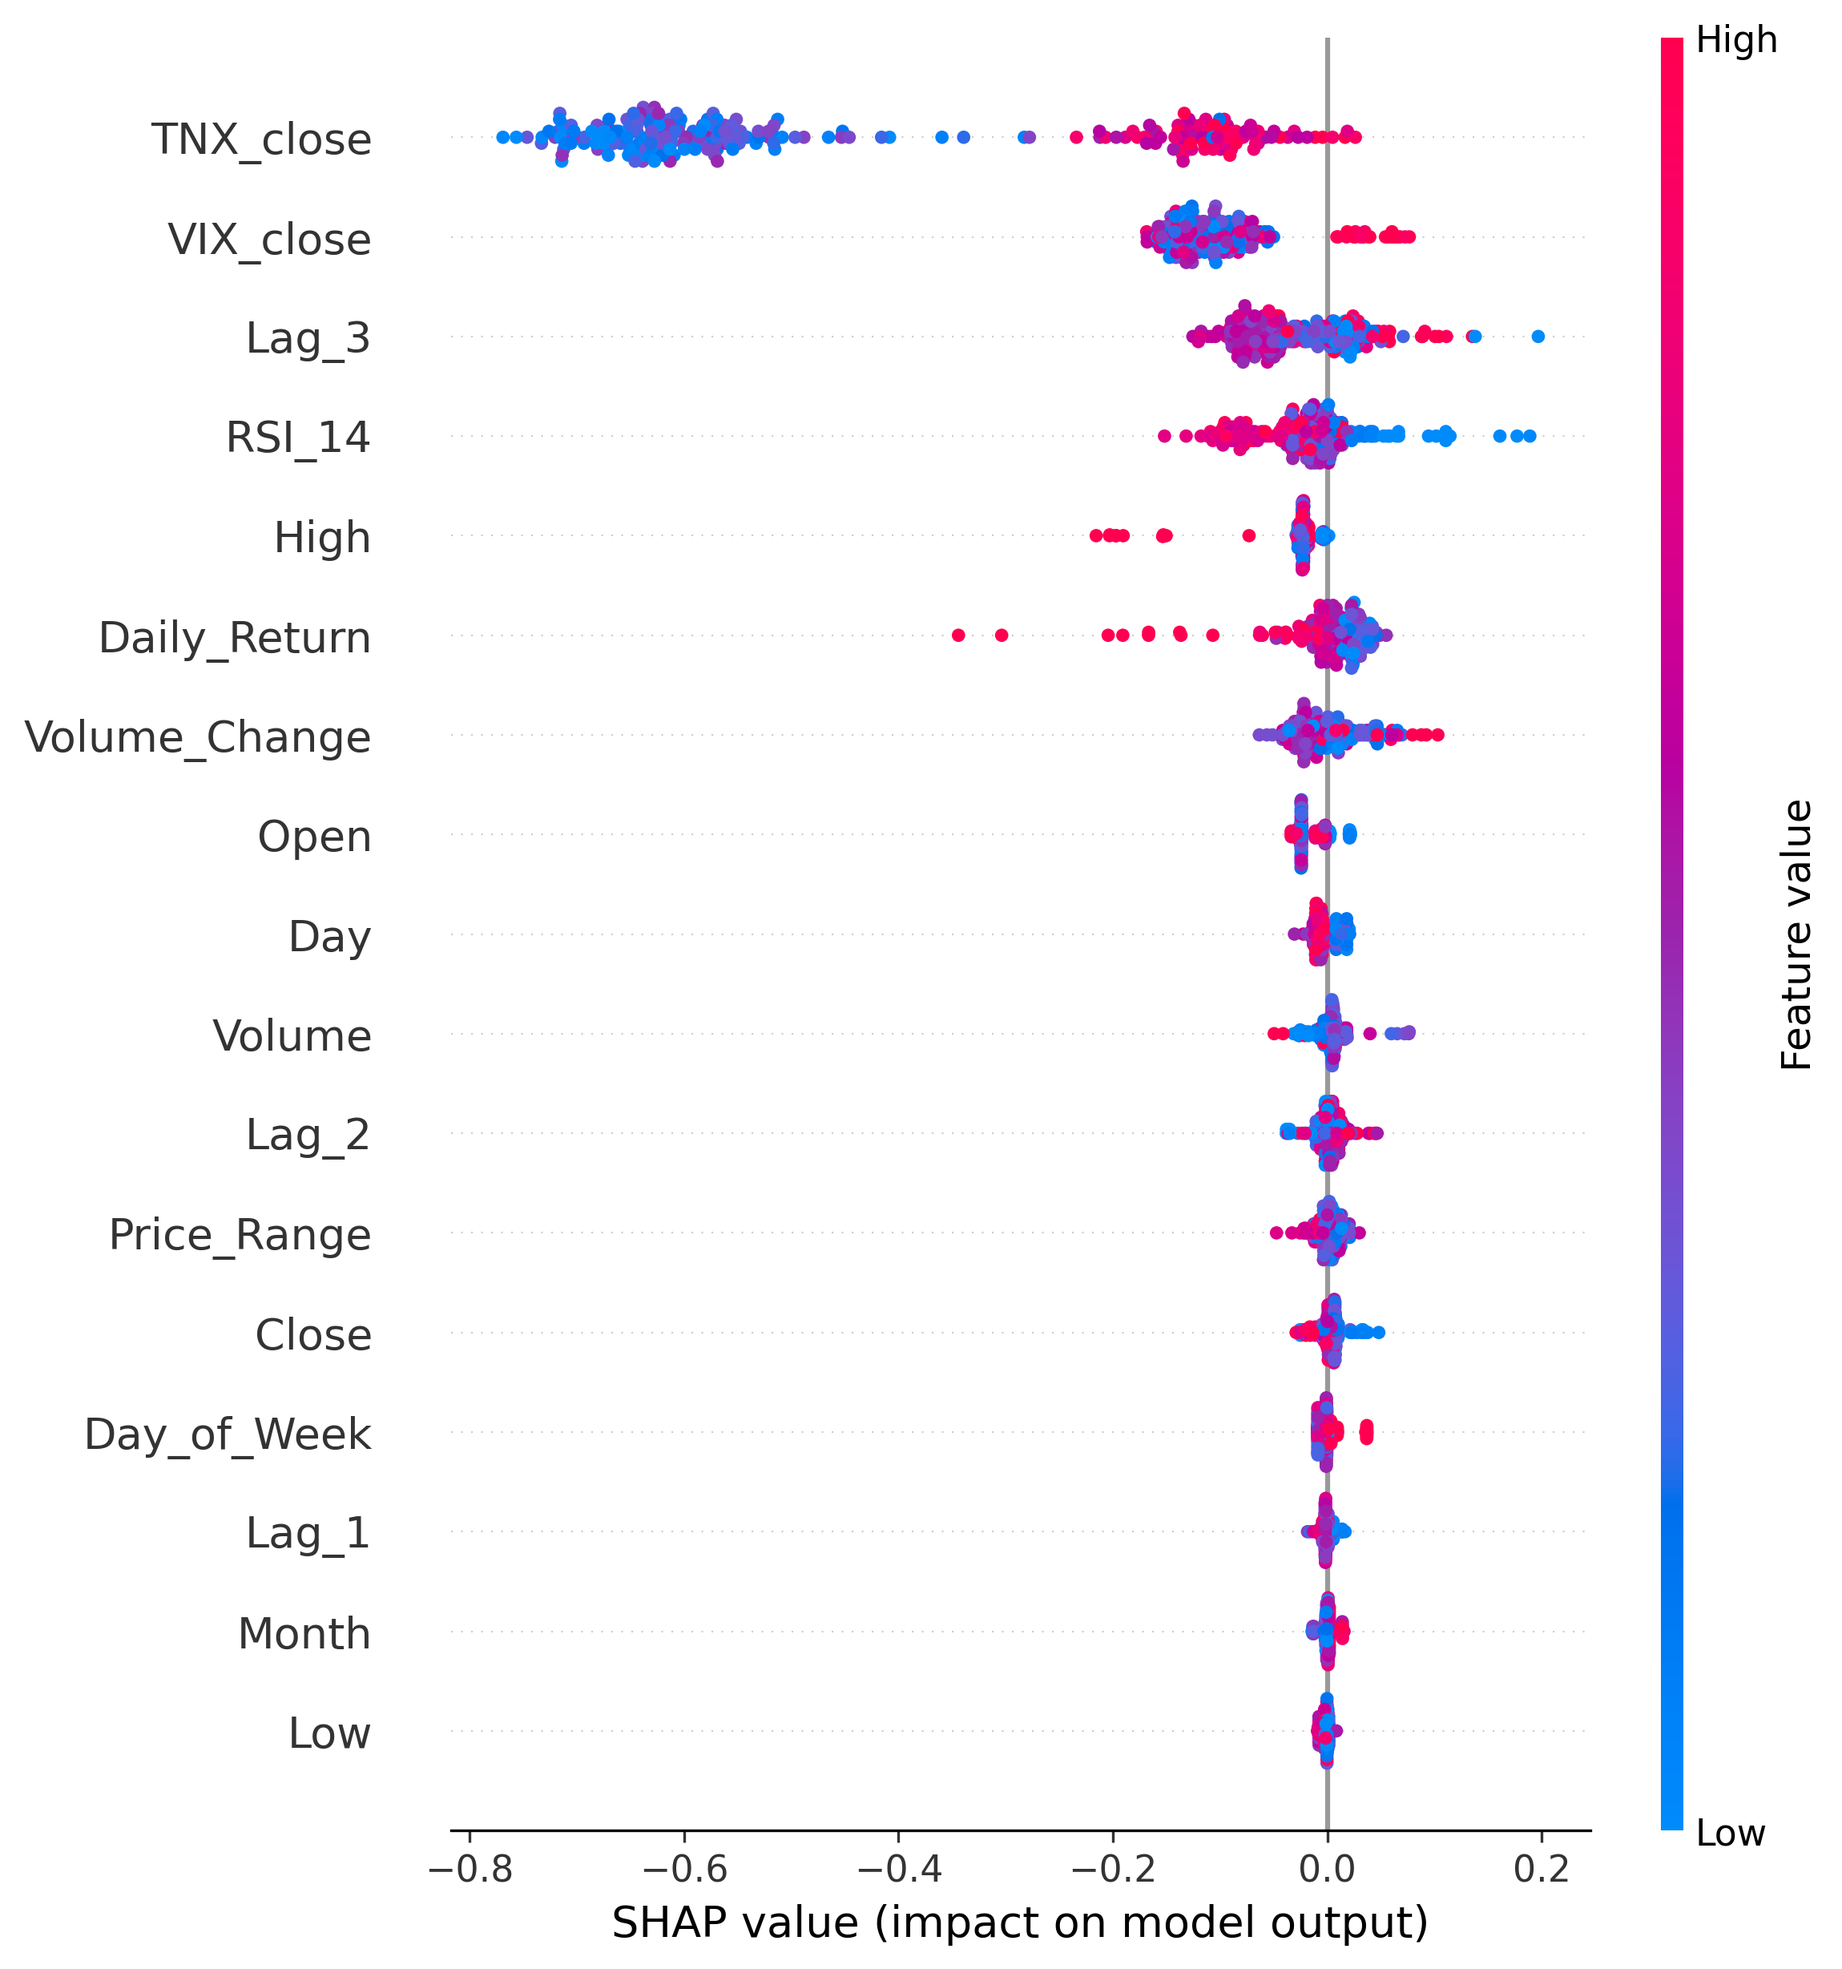
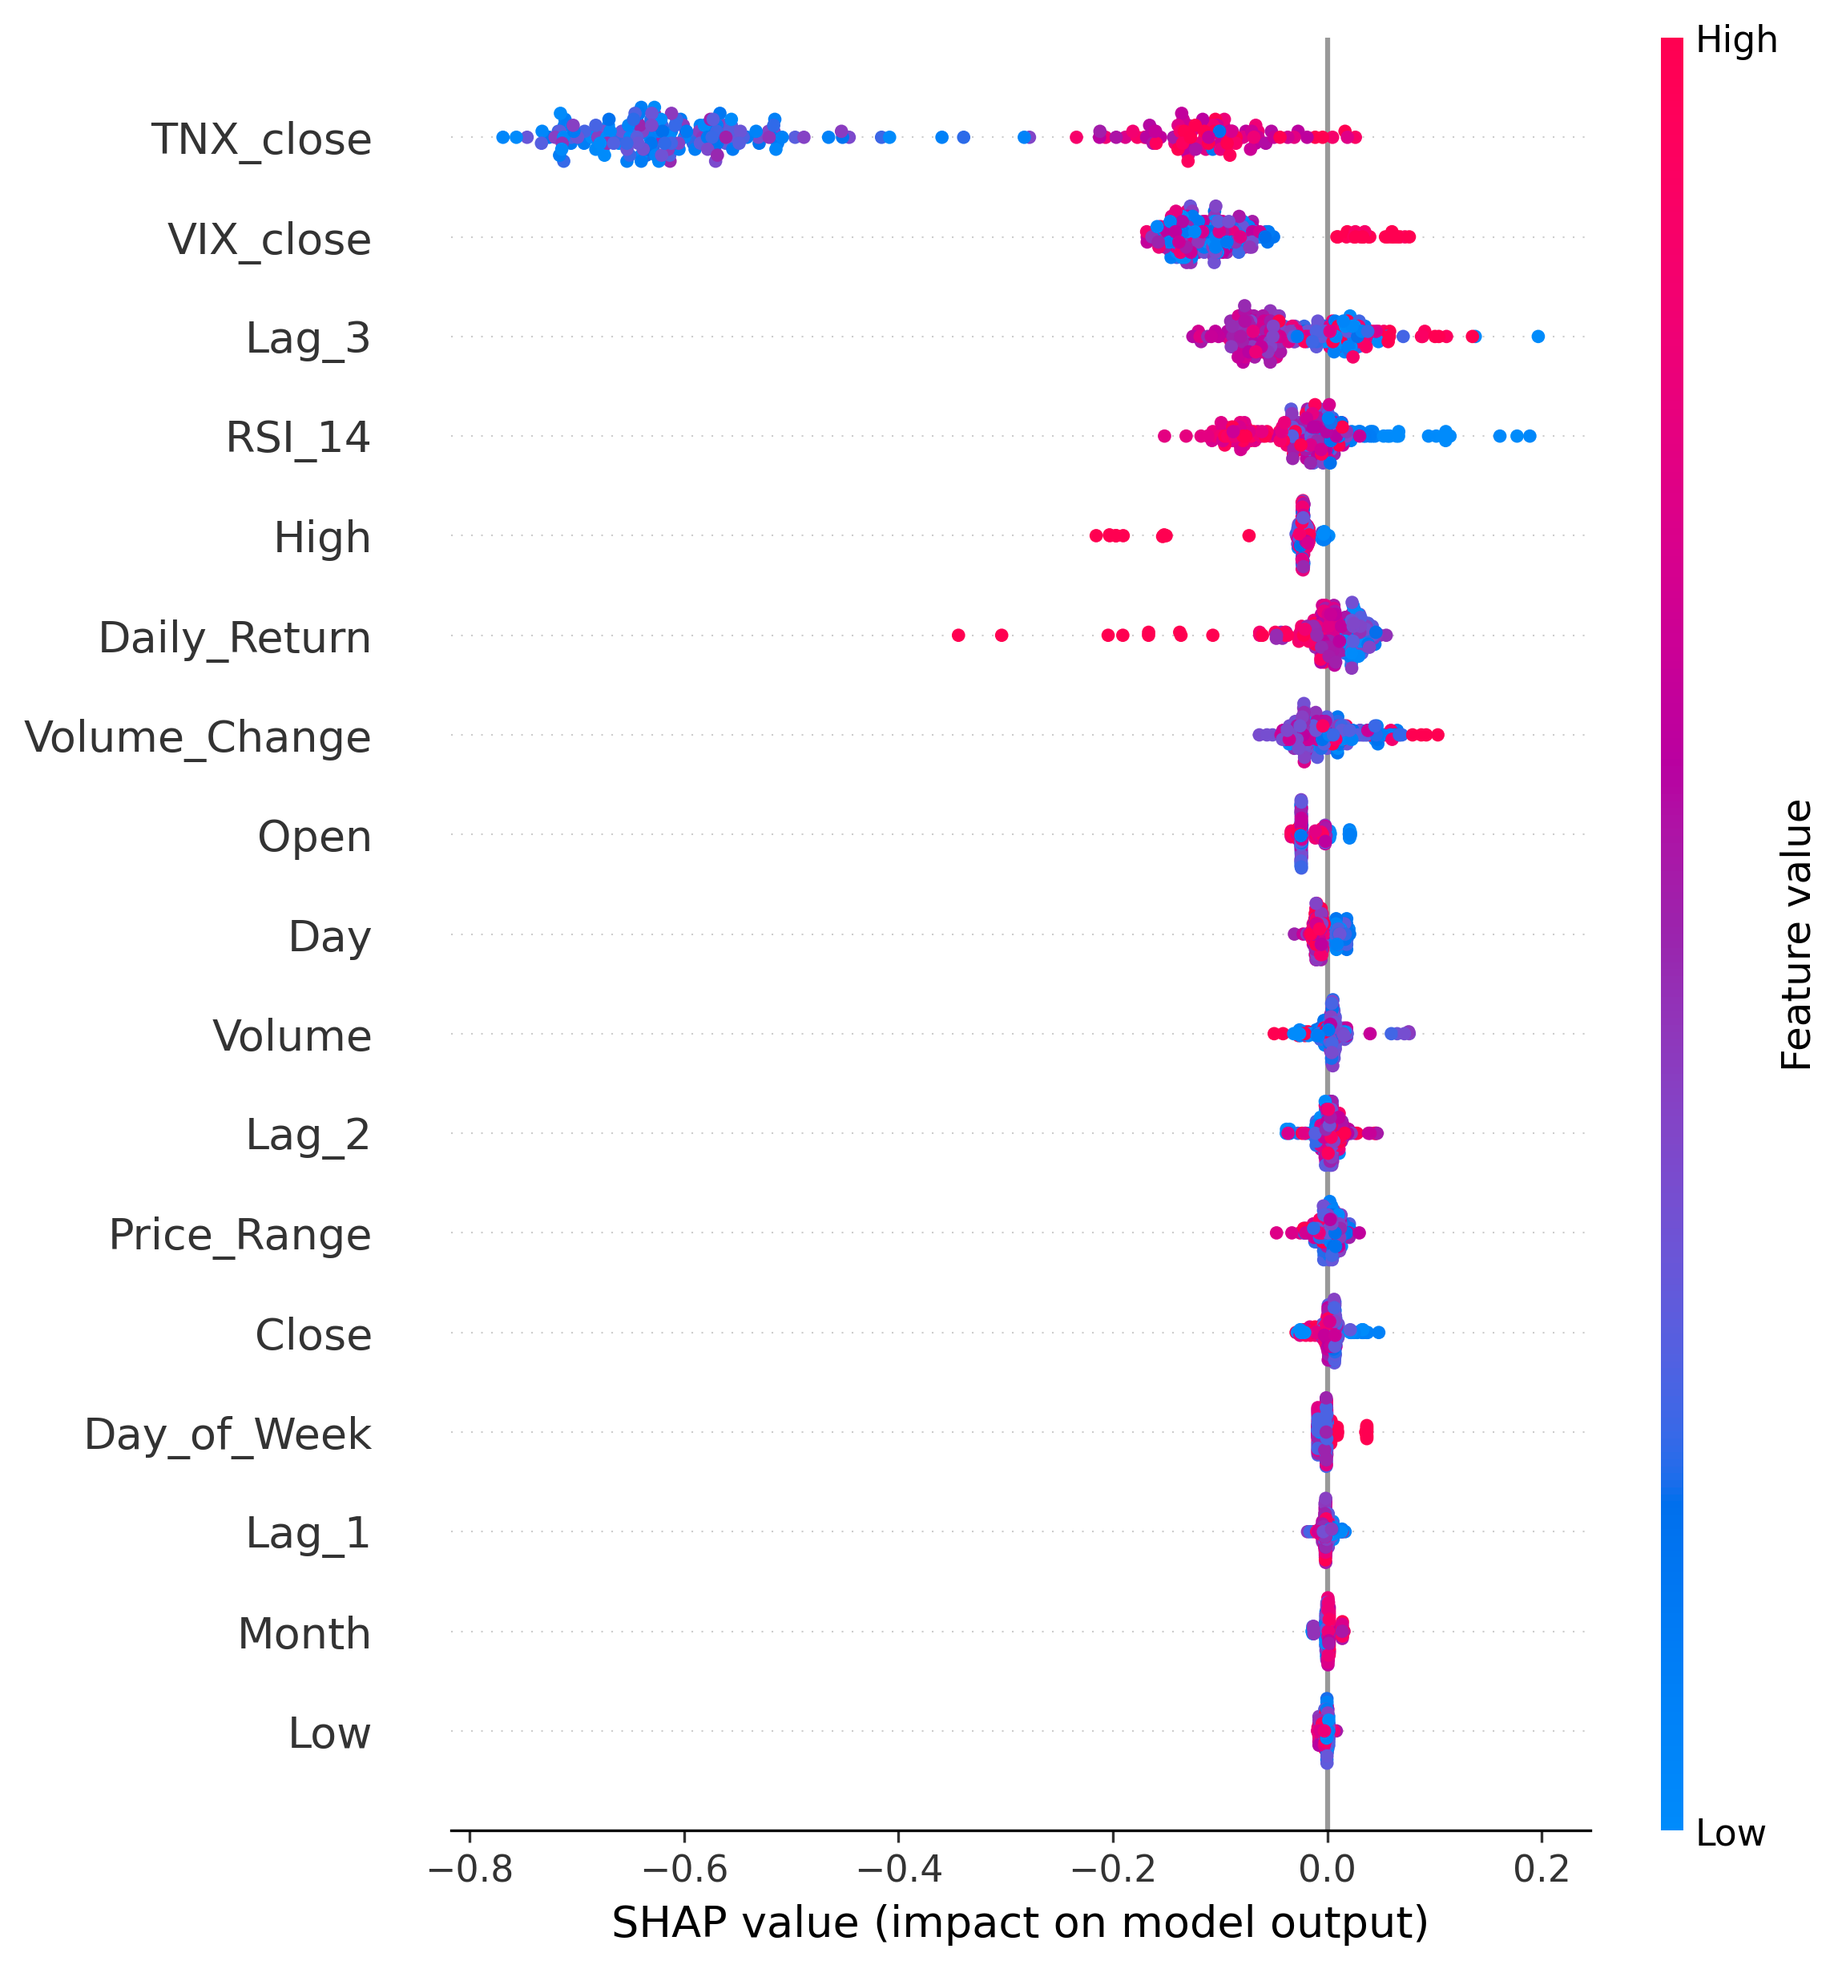
add app.py to have a ui that the user can interact with and made the data_pull.py and features.py have functions to use in other files

diff --git a/src/features.py b/src/features.py
@@ -1,23 +1,15 @@
 """
-Data Processing Script
-
 This script takes raw market data and engineers features for modeling.
 It adds:
 - Time-based features (year, month, day, weekday)
 - Return-based features (daily returns and lagged returns)
 - Technical indicator (RSI-14)
-
-Output is saved as a cleaned dataset ready for analysis or ML models.
 """
 
 import pandas as pd
 import numpy as np
 
-# Load raw dataset
-df_raw = pd.read_csv("data/raw/rawData.csv")
 
-
-# Extract date features
 def split_date(df):
     """
     Extracts useful time-based features from the Date column.
@@ -30,52 +22,52 @@ def split_date(df):
     return df
 
 
-# Apply date feature engineering
-df_processed = split_date(df_raw)
+def build_features(df):
+    """
+    Takes a raw dataframe and returns it with engineered
+    features added (returns, lagged returns, RSI-14, volume/price range).
+    """
+    df = df.copy()
+    df = split_date(df)
+    df = df.drop(columns="Date")
 
-# Drop original Date column after extraction
-df_processed = df_processed.drop(columns="Date")
+    # Daily returns
+    df["Daily_Return"] = df["Close"].pct_change()
+
+    # Lagged return features
+    df["Lag_1"] = df["Daily_Return"].shift(1)
+    df["Lag_2"] = df["Daily_Return"].shift(2)
+    df["Lag_3"] = df["Daily_Return"].shift(3)
+
+    # Compute RSI (14-day)
+    delta = df["Close"].diff()
+    gain = delta.clip(lower=0)
+    loss = -delta.clip(upper=0)
+    avg_gain = gain.rolling(14).mean()
+    avg_loss = loss.rolling(14).mean()
+    rs = avg_gain / avg_loss
+    df["RSI_14"] = 100 - (100 / (1 + rs))
+
+    # Volume change captures unusual trading activity which often precedes price moves
+    df["Volume_Change"] = df["Volume"].pct_change()
+
+    # Price range measures intraday volatility relative to closing price
+    df["Price_Range"] = (df["High"] - df["Low"]) / df["Close"]
+
+    # Replace any infinity values with NaN, then drop remaining NaN rows
+    df = df.replace([np.inf, -np.inf], np.nan)
+    df = df.dropna()
+
+    return df
 
 
-# Create daily returns
-df_processed["Daily_Return"] = df_processed["Close"].pct_change()
+if __name__ == "__main__":
+    df_raw = pd.read_csv("data/raw/rawData.csv")
+    df_processed = build_features(df_raw)
 
-# Create lagged return features
-df_processed["Lag_1"] = df_processed["Daily_Return"].shift(1)
-df_processed["Lag_2"] = df_processed["Daily_Return"].shift(2)
-df_processed["Lag_3"] = df_processed["Daily_Return"].shift(3)
+    df_processed["Future_Return"] = df_processed["Close"].pct_change().shift(-1)
+    df_processed["Target"] = (df_processed["Future_Return"] > 0).astype(int)
+    df_processed = df_processed.dropna()
+    df_processed = df_processed.drop(columns=["Future_Return"])
 
-
-# Compute RSI (14-day)
-delta = df_processed["Close"].diff()
-
-gain = delta.clip(lower=0)
-loss = -delta.clip(upper=0)
-
-# Average gains and losses over 14 periods
-avg_gain = gain.rolling(14).mean()
-avg_loss = loss.rolling(14).mean()
-
-# Relative Strength Index
-rs = avg_gain / avg_loss
-df_processed["RSI_14"] = 100 - (100 / (1 + rs))
-
-# Adding a target column
-df_processed["Future_Return"] = df_processed["Close"].pct_change().shift(-1)
-df_processed["Target"] = (df_processed["Future_Return"] > 0).astype(int)
-
-# Volume change captures unusual trading activity which often precedes price moves
-df_processed['Volume_Change'] = df_processed['Volume'].pct_change()
-
-# Price range measures intraday volatility relative to closing price
-df_processed['Price_Range'] = (df_processed['High'] - df_processed['Low']) / df_processed['Close']
-
-# Replace any infinity values with NaN
-df_processed = df_processed.replace([np.inf, -np.inf], np.nan)
-
-# Remove NaN rows from dataset
-df_processed = df_processed.dropna()
-df_processed = df_processed.drop(columns=['Future_Return'])
-
-# Save processed dataset
-df_processed.to_csv("data/processed/processedData.csv", index=False)
+    df_processed.to_csv("data/processed/processedData.csv", index=False)

diff --git a/src/app.py b/src/app.py
@@ -1,0 +1,90 @@
+"""
+Streamlit app for predicting next-day stock price direction.
+
+Fetches recent market data for a user-supplied ticker, builds features,
+and uses a pretrained XGBoost model to predict whether the stock will
+move up or down. Displays the prediction confidence, a SHAP waterfall
+chart explaining the key drivers behind the prediction, and a recent
+price chart.
+"""
+import streamlit as st
+import joblib
+import shap
+
+from features import build_features
+from data_pull import fetch_market_data
+from datetime import date, timedelta
+import matplotlib.pyplot as plt
+
+
+# Load model/scaler once
+model = joblib.load("models/model_XGB.joblib")
+scaler = joblib.load("models/scaler.joblib")
+
+MIN_ROWS_NEEDED = 80
+
+# Page setup
+st.title("Stock Direction Predictor")
+ticker = st.text_input("Enter a ticker:")
+
+# Getting the date from today and 180 days in the past
+today = date.today()
+start = today - timedelta(days=180)
+
+# The button for predicting 
+if st.button("Predict"):
+    ticker = ticker.strip().upper()
+
+    if not ticker:
+        st.warning("Please enter a ticker symbol.")
+    else:
+        try:
+            data = fetch_market_data(ticker, start_date=start, end_date=today)
+        except Exception as e:
+            st.error(f"Couldn't fetch data for '{ticker}': {e}")
+            st.stop()
+
+        if data.empty:
+            st.error(f"No data found for '{ticker}'. Check the ticker symbol and try again.")
+        elif len(data) < MIN_ROWS_NEEDED:
+            st.error(f"Not enough historical data for '{ticker}' to generate a prediction.")
+        else:
+            st.success(f"Fetched {len(data)} rows of data for {ticker}.")
+
+            features = build_features(data)
+            features = features.drop(columns="Year")
+
+            # Use only the most recent day for prediction
+            latest_features = features.iloc[[-1]]
+
+            # Scale and predict
+            scaled = scaler.transform(latest_features)
+            prediction = model.predict(scaled)[0]
+            confidence = model.predict_proba(scaled)[0].max()
+
+            # Display prediction
+            direction = "UP 📈" if prediction == 1 else "DOWN 📉"
+            st.metric("Predicted Direction:", direction)
+            st.write(f"Confidence: {confidence:.1%}")
+
+            # SHAP explanation
+            explainer = shap.TreeExplainer(model)
+            shap_values = explainer.shap_values(scaled)
+
+            # Displaying a waterfall chart about all the features effecting the model
+            st.write("What's driving this prediction:")
+            fig, ax = plt.subplots()
+            shap.plots.waterfall(
+                shap.Explanation(
+                    values=shap_values[0],
+                    base_values=explainer.expected_value,
+                    data=latest_features.iloc[0],
+                    feature_names=latest_features.columns
+                ),
+                show=False
+            )
+            st.pyplot(fig)
+
+            # Recent price chart
+            st.write("The recent Price chart over 180 days:")
+            st.line_chart(data["Close"])

diff --git a/src/data_pull.py b/src/data_pull.py
@@ -15,33 +15,31 @@ The final dataset is saved as a CSV for downstream analysis or modeling.
 import yfinance as yf
 import pandas as pd
 
-# Define time range for data collection
-TICKER = input("Enter ticker symbol (e.g. AAPL, ^GSPC, TSLA): ")
-START_DATE = "2015-01-01"
-END_DATE = "2024-01-01"
 
-# Download market index data for the S&P 500
-df_price = yf.download(TICKER, start=START_DATE, end=END_DATE)
+def fetch_market_data(ticker, start_date, end_date):
+    """
+    Downloads price data for the given ticker plus VIX and TNX,
+    merges them into a single dataframe.
+    """
+    df_price = yf.download(ticker, start=start_date, end=end_date)
+    df_vix = yf.download("^VIX", start=start_date, end=end_date)
+    df_tnx = yf.download("^TNX", start=start_date, end=end_date)
 
-# Download volatility index 
-df_vix = yf.download("^VIX", start=START_DATE, end=END_DATE)
+    final_df = df_price.copy()
+    final_df["VIX_close"] = df_vix["Close"]
+    final_df["TNX_close"] = df_tnx["Close"]
 
-# Download 10-year treasury yield 
-df_tnx = yf.download("^TNX", start=START_DATE, end=END_DATE)
+    final_df = final_df.dropna()
+    final_df = final_df.droplevel(1, axis=1)
+    final_df = final_df.reset_index()
 
-# Start building final dataset using S&P 500 as the base
-final_df = df_price.copy()
+    return final_df
 
-# Adding more columns to the base from the volatility index and 10-year treasury yield
-final_df["VIX_close"] = df_vix["Close"]
-final_df["TNX_close"] = df_tnx["Close"]
 
-# Remove rows with missing values
-final_df = final_df.dropna()
+if __name__ == "__main__":
+    TICKER = input("Enter ticker symbol (e.g. AAPL, ^GSPC, TSLA): ")
+    START_DATE = "2015-01-01"
+    END_DATE = "2024-01-01"
 
-# Flatten multi-index columns by getting rid of the Tickers
-final_df = final_df.droplevel(1, axis=1)
-
-# Save cleaned dataset in data/raw
-final_df.to_csv("data/raw/rawData.csv", index=True)
-
+    final_df = fetch_market_data(TICKER, START_DATE, END_DATE)
+    final_df.to_csv("data/raw/rawData.csv", index=True)
